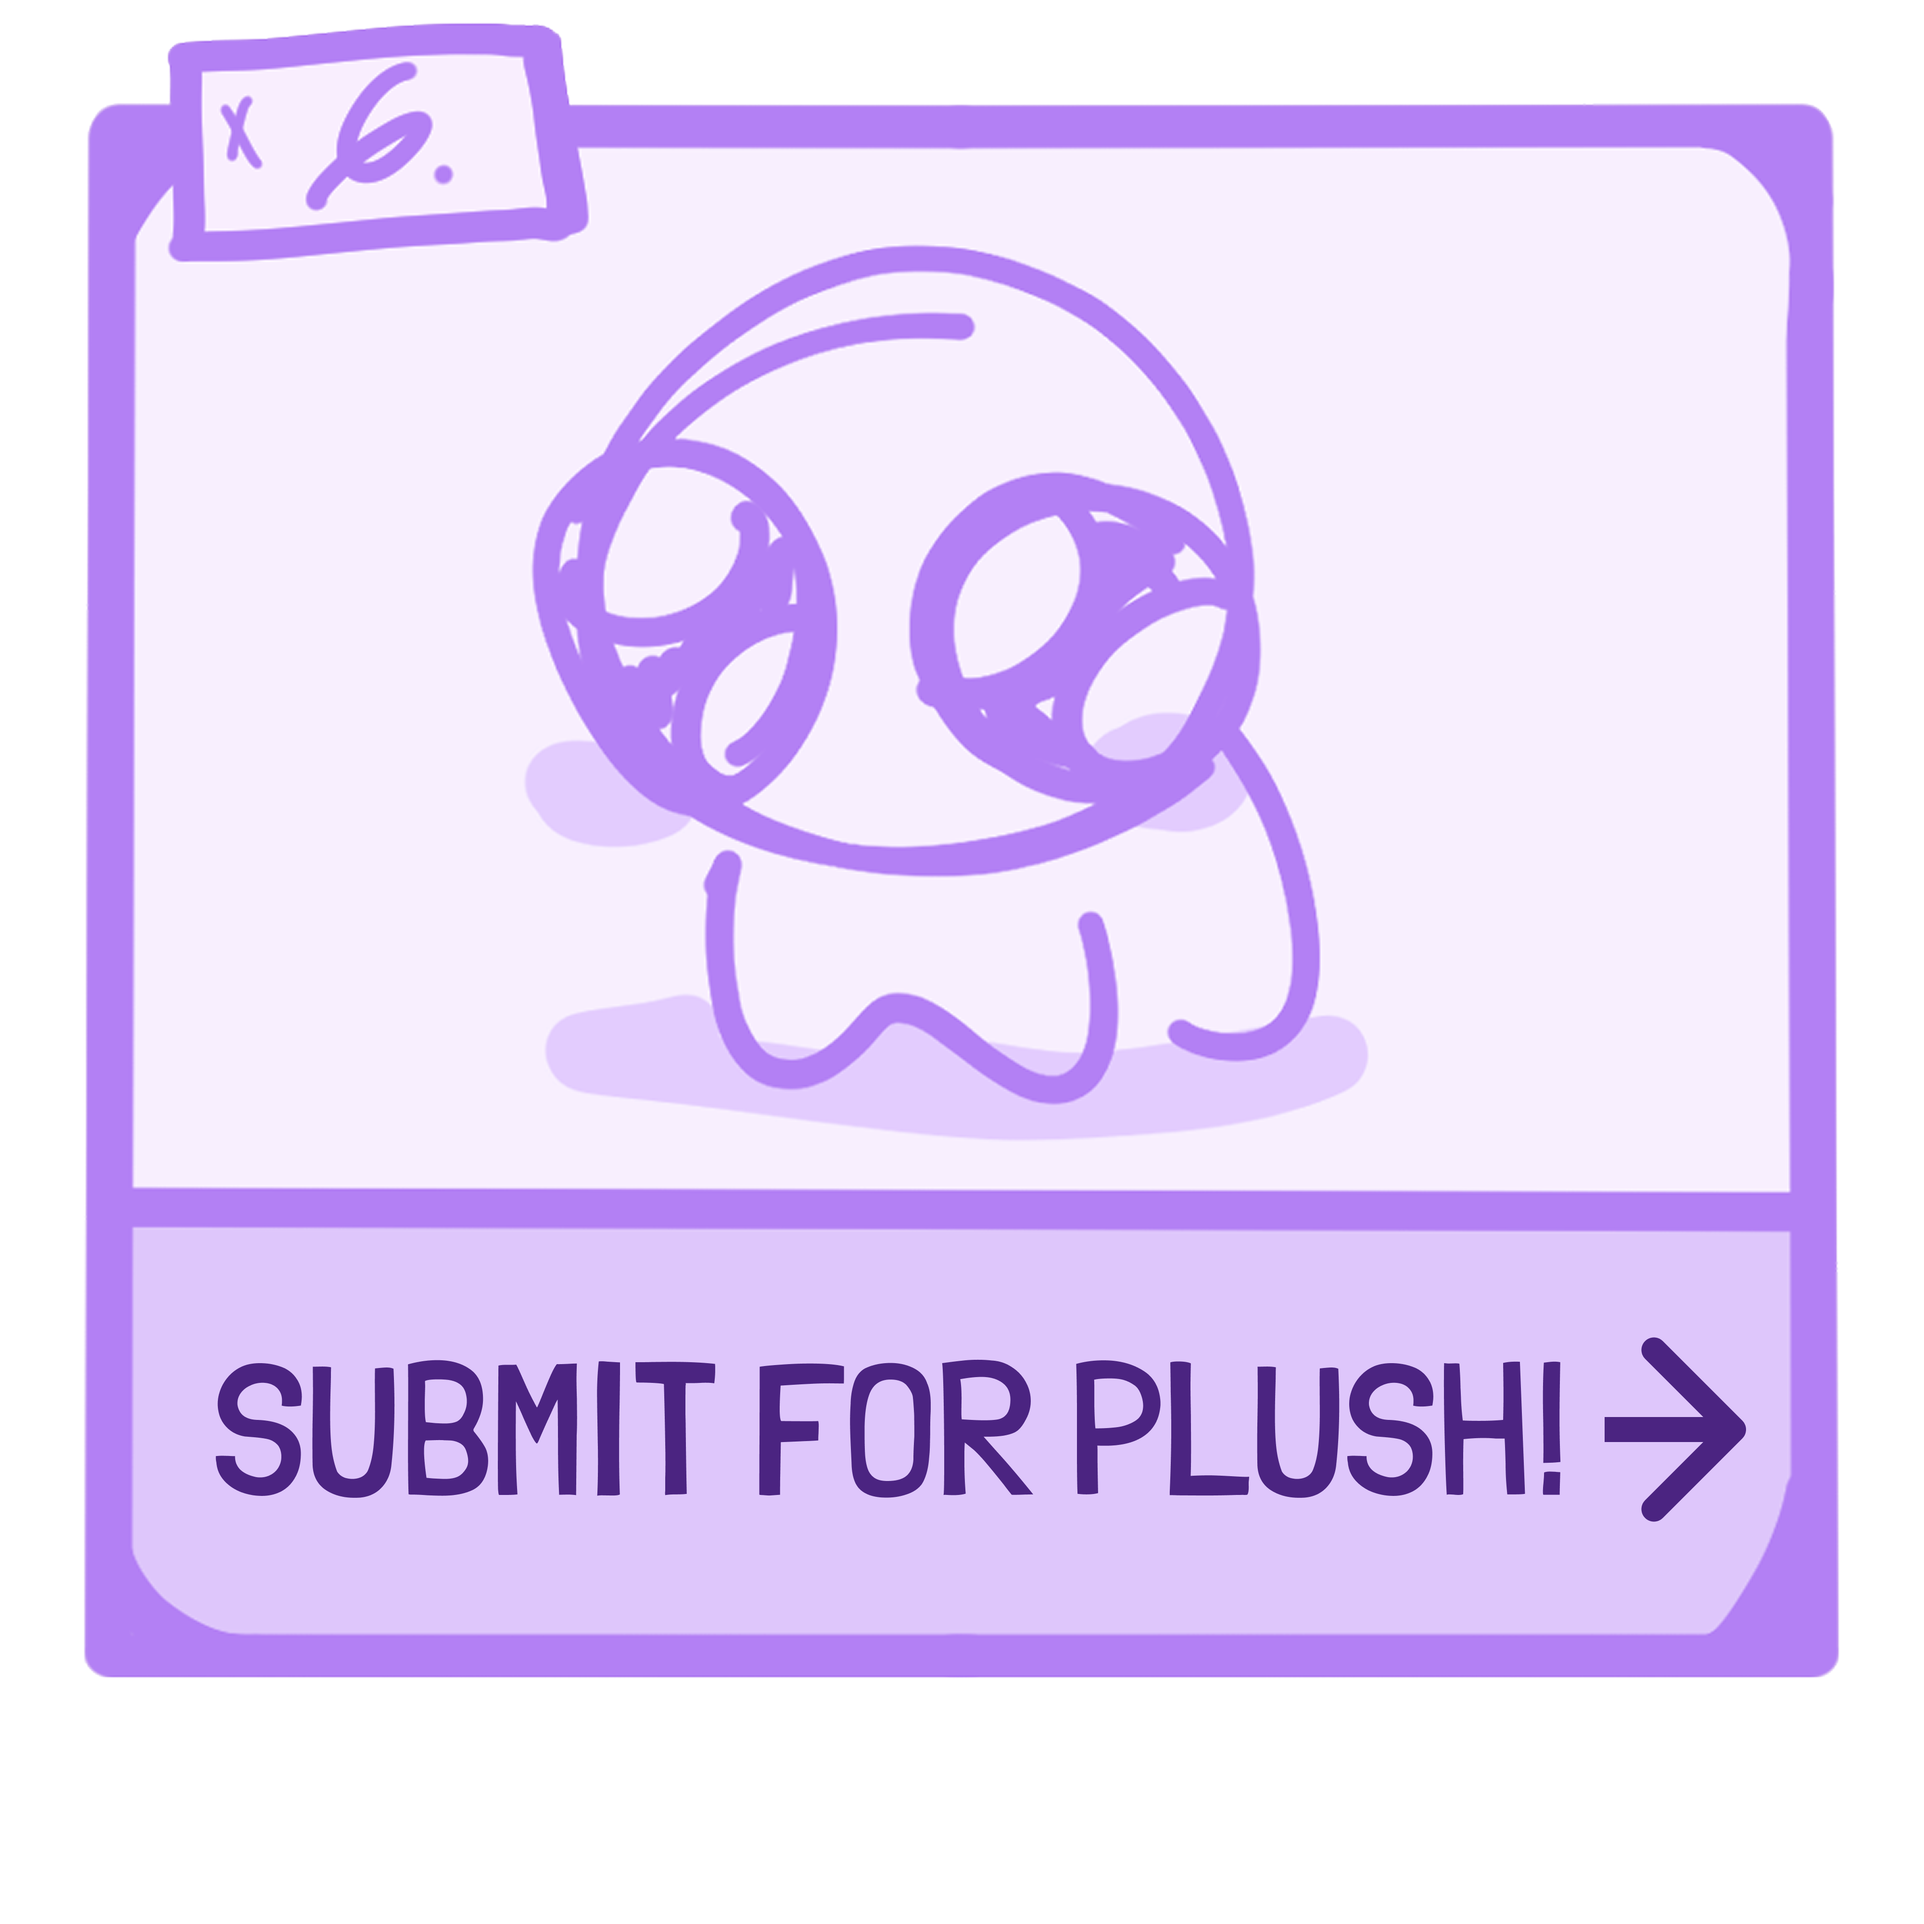
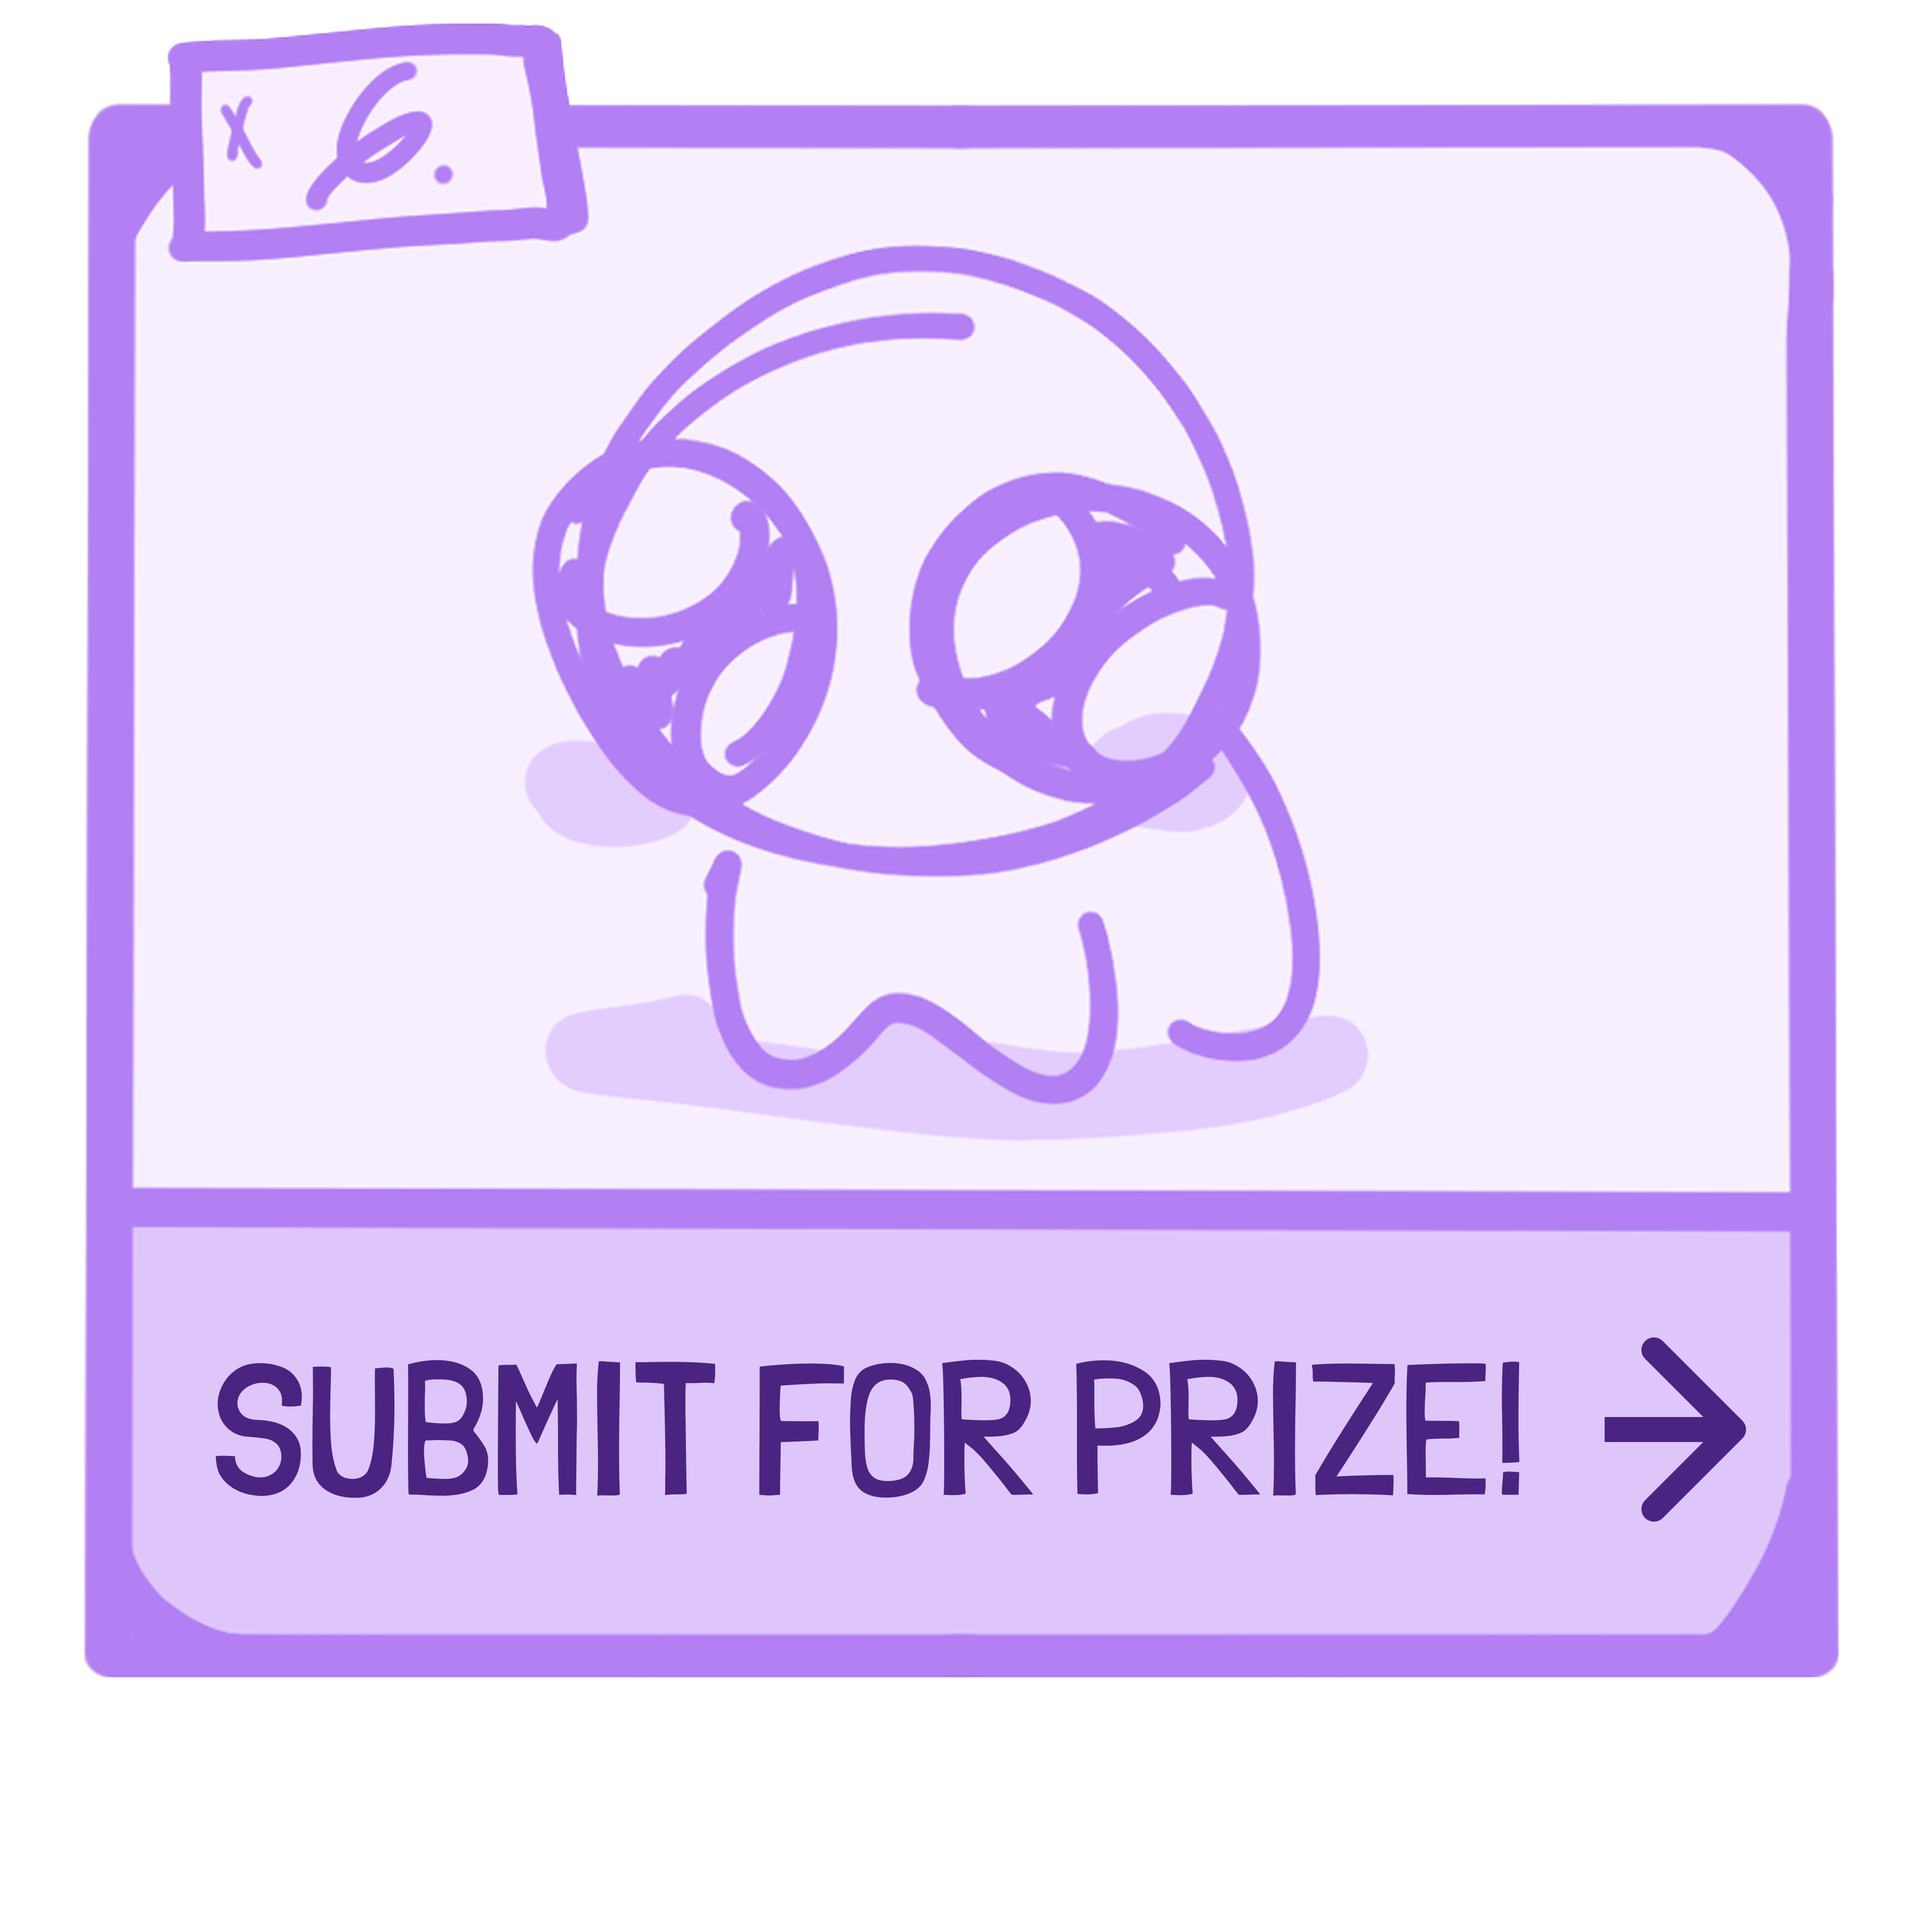
changed some stuff

Changed region(s): [[0.5938, 0.6875, 0.8125, 0.7812]]

diff --git a/index.html b/index.html
@@ -43,7 +43,7 @@
       <input type="SUBMIT" class="submit-btn"></input>
     </form>
 
-    <div style="padding:1rem 2rem;">
+    <div style="padding:1rem 1rem;">
       <p>FOR TEENS 18 AND UNDER... <br> <div style="font-weight:100">This month's challenge ends August 31, 2025</div></p>
     </div>
     
@@ -112,27 +112,27 @@
     </div>
   </div>
 </section>
-  <!-- not too sure what this does <a href="https://join.slack.com/t/hackclub/shared_invite/zt-3b5sak3xz-bFujFB5ciw1jnEDzfUEzAg"></a> -->
+
 <section id="tiers">
   <div class="tier" style="max-width:90%;">
   <div class="card">
-    <img src="assets/apprentice.png" style="width:90%">
-    <h2>Apprentice</h2>
+    <img src="assets/apprentice.png" style="width:95%" class="rotate">
+    <h2>APPRENTICE</h2>
     <p>Spend 3+ hours making a visual novel, get this month's custom stickers</p>
   </div>
   <div class="card">
-    <img src="assets/spellcaster.png" style="width:90%">
-    <h2>Spellcaster</h2>
+    <img src="assets/spellcaster.png" style="width:95%" class="rotate">
+    <h2>SPELLCASTER</h2>
     <p>Spend 10+ hours of quality work, get a BIG Ikea plush!</p>
   </div>
   <div class="card">
-    <img src="assets/mage.png" style="width:90%">
-    <h2>Mage</h2>
+    <img src="assets/mage.png" style="width:95%" class="rotate">
+    <h2>MAGE</h2>
     <p>Spend 30+ hours of quality work, get a STEAM license</p>
   </div>
   <div class="card">
-    <img src="assets/archmage.png" style="width:90%">
-    <h2>Archmage</h2>
+    <img src="assets/archmage.png" style="width:95%" class="rotate">
+    <h2>ARCHMAGE</h2>
     <p>Spend 50+ hours of quality work, get a drawing tablet</p>
   </div>
 </div>
@@ -162,7 +162,7 @@
     <div class="format">
       <h2> TRACKING YOUR HOURS</h2> 
       <p> Track your time spent drawing with timelapses Track your coding hours with our
-      <a href="hackatime.hackclub.com"> HACKATIME EXTENSION</a></p>
+      <a href="https://hackatime.hackclub.com" target="_blank" class="enlarge"> HACKATIME EXTENSION</a></p>
     </div>
     <iframe 
         loading="lazy" 
@@ -176,7 +176,7 @@
     <div class="format">
       <h2> CODING WITH RENPY</h2> 
       <p> New to Renpy? No worries, it's super easy!
-        <br>Here's a more in-depth tutorial: <a href="https://www.renpy.org/doc/html/quickstart.html"> RENPY QUICKSTART <a></a></p>  
+        <br>Here's a more in-depth tutorial: <a href="https://www.renpy.org/doc/html/quickstart.html" class="enlarge"> RENPY QUICKSTART <a></a></p>  
     </div>
      <iframe loading=lazy 
         src="https://www.canva.com/design/DAGwqnw-zrA/3dG1zywd0SWtJ3xOUwylVA/view?embed"
@@ -189,7 +189,7 @@
   <div class="stack">
     <div class="format">
       <h2> FINALLY... PUBLISH ON ITCH.IO!</h2> 
-      <p> Very easy tutorial on how to publish on itch.io! Submit your published, playable link <a href="https://forms.hackclub.com/storyboard">HERE</a></p>
+      <p> Very easy tutorial on how to publish on itch.io! Submit your published, playable link <a href="https://forms.hackclub.com/storyboard" class="enlarge">HERE</a></p>
     </div>
     <iframe loading=lazy 
           src="https://docs.google.com/presentation/d/e/2PACX-1vTaK4_94OMLMlhZ6nfoUnLDJfQBc1mGVFsUa7D9aQZaNLYXMWnGWpw7gflQwYLAG18MihnZ6S3DtkRe/pubembed?start=false&loop=false&delayms=60000"
@@ -246,7 +246,7 @@
       <h2 class="white-text">DOKI DOKI LITERATURE CLUB</h2>
       <p class="white-text"> GENRE: HORROR 
       <p class="small white-text">IT'S A DATING SIM. ...OR NOT?</p>
-      <p class="white-text">CHECK OUT THE GAME
+      <p class="white-text">FREE DOWNLOAD! CHECK OUT THE GAME
       <a href="https://ddlc.moe" class="enlarge" style="filter:brightness(1.9) hue-rotate(42deg) saturate(200%)"> HERE </a></p>
     </div> 
   </div>
@@ -255,8 +255,12 @@
 
 <section id="section-faq">
   <h2 class="header">FAQ</h2>
-  <iframe frameborder="0" src="https://itch.io/embed-upload/14738959?color=333333" allowfullscreen="" width="960" height="560"><a href="https://alicesun.itch.io/storyboard-faq">Play Storyboard FAQ on itch.io</a></iframe>
-  <p class="small">Questions? Contact <a href="mailto:storyboard@hackclub.com" style="color:rgb(155, 99, 220)">renran@hackclub.com</a></p>
+  <iframe 
+  frameborder="0" src="https://itch.io/embed-upload/14738959?color=333333"
+  allowfullscreen="">
+  <a href="https://alicesun.itch.io/storyboard-faq">Play Storyboard FAQ on itch.io</a>
+</iframe>
+  <p class="small">Questions? Contact <a href="mailto:renran@hackclub.com" style="color:rgb(155, 99, 220)">renran@hackclub.com</a></p>
   
 
   <p tight small>MADE BY TEENAGERS FOR TEENAGERS</p>

diff --git a/styles.css b/styles.css
@@ -234,8 +234,20 @@ font-family: "Londrina Solid", sans-serif;
     margin: 6rem 2rem;
   }
 
+  .rotate{
+    cursor:pointer;
+    transition: 
+      background-color 0.3s ease, transform 0.3s ease;
+    }
+
+  .rotate:hover {
+      transform:scale(1.15) rotate(-2deg);
+      filter:hue-rotate(50deg);
+
+  }
+
   .card {
-    padding:1rem;
+    padding:0.8rem;
   }
   a {
     color:#242781;
@@ -358,9 +370,8 @@ iframe {
   align-items:center;
   gap:1rem;
   padding:1rem;
-  
-
 }
+
 
 .purple {
   background-color:#242781;
